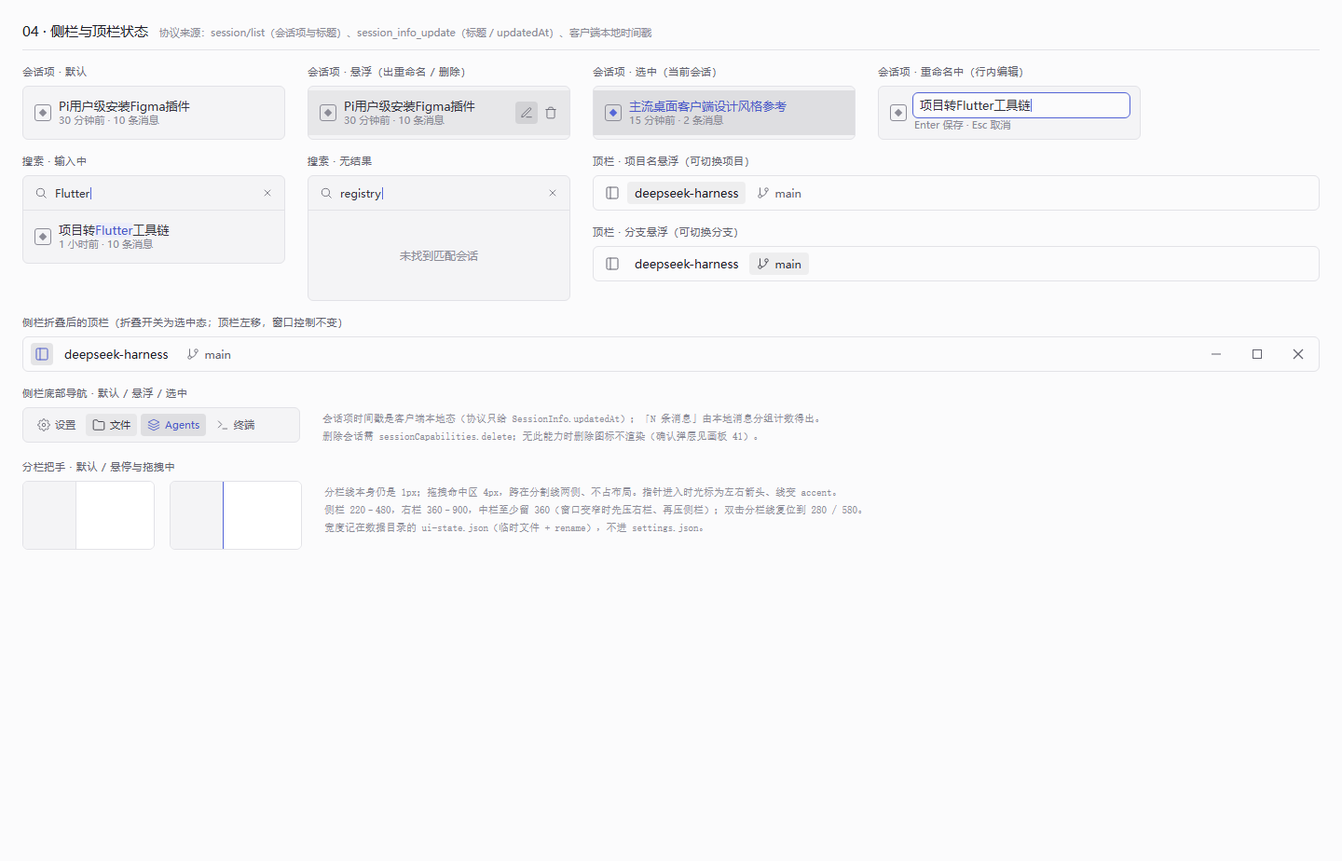
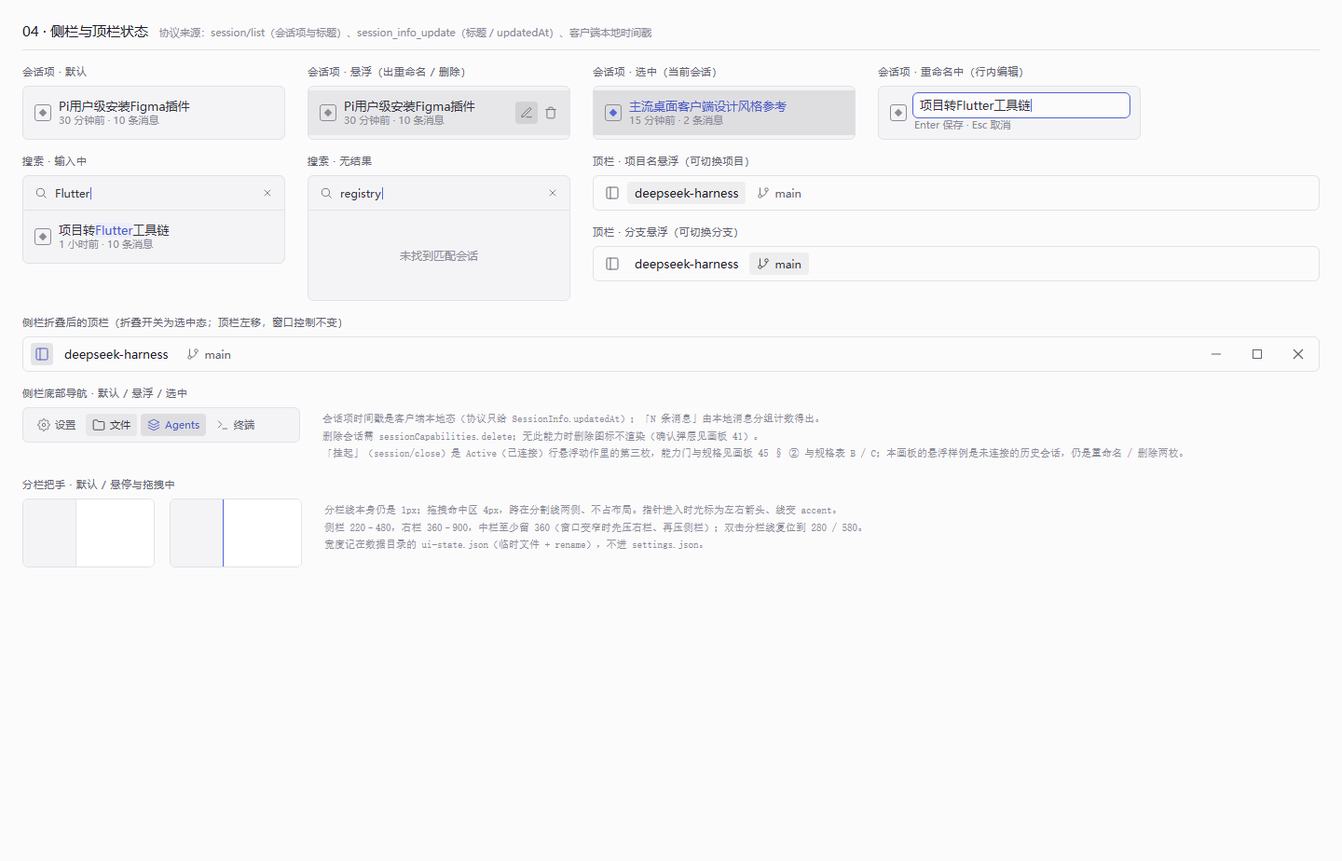
design(iter-19): 回补画板 45 的「挂起」行内动作（+ 画板 04 注记），删 DIVERGENCE A-37
所有者 2026-09-29 指示回补实现先行的那一处：

- design/round-design/45-sidebar-active-history.dc.html：§ ② 的 Active 普通项悬浮态由两枚图标
  改成三枚（pause / 改名 / 删除，12px、24 视口、#7E7E8A、stroke 2，挂起在改名之前）；
  规格表 B 的「Active → History 降格」点明入口是本行悬浮动作里的「挂起」，并新增一行
  「挂起（Active 行内动作）」（含 tooltip、只读转录、沉回 History、再点挂回与三层能力门）；
  规格表 C 新增「挂起图标（行内动作）」一行。
- design/round-design/04-sidebar-states.dc.html：悬浮样例是未连接的历史会话，仍画重命名 / 删除两枚
  （加第三枚就与实现不符），只在注记里补一句指向画板 45 § ② 与规格表 B / C。
- PNG：scripts/render-design.ps1 -Round round-design -Only 45,04 重渲染（1440×960 / 1440×924），
  两张都逐张看过。
- design/README.md：画板 45 行加注记 + 变更记录新增 2026-09-29 一条。
- design/DIVERGENCE.md：删除 A-37（按该文件自己的用法：回补完就删行、编号不腾，留注释说明）。
- 同步引用 A-37 的注释 / 文档：lib/ui/transcript/icons.dart、lib/app/session_controller.dart、
  lib/ui/shell/sidebar.dart、test/ui/sidebar_suspend_test.dart、rounds/BACKLOG-CLOSED.md、
  iterations/iteration-19.md（新增工作项 4，类型 board）。

validate.ps1 全绿（622 项）。

Changed region(s): [[0.2188, 0.5152, 0.875, 0.6364], [0.0, 0.5152, 0.125, 0.5758]]

diff --git a/design/round-design/45-sidebar-active-history.dc.html b/design/round-design/45-sidebar-active-history.dc.html
@@ -315,6 +315,7 @@
                 <div style="font-size:10px;color:#7E7E8A" class="tabular">12 分钟前 · 9 条消息</div>
               </div>
               <div style="display:flex;align-items:center;gap:4px">
+                <svg width="12" height="12" viewBox="0 0 24 24" fill="none" stroke="#7E7E8A" stroke-width="2"><line x1="9" y1="5" x2="9" y2="19"/><line x1="15" y1="5" x2="15" y2="19"/></svg>
                 <svg width="12" height="12" viewBox="0 0 24 24" fill="none" stroke="#7E7E8A" stroke-width="2"><path d="M12 20h9"/><path d="M16.5 3.5a2.121 2.121 0 0 1 3 3L7 19l-4 1 1-4L16.5 3.5z"/></svg>
                 <svg width="12" height="12" viewBox="0 0 24 24" fill="none" stroke="#7E7E8A" stroke-width="2"><polyline points="3 6 5 6 21 6"/><path d="M19 6v14a2 2 0 0 1-2 2H7a2 2 0 0 1-2-2V6m3 0V4a2 2 0 0 1 2-2h4a2 2 0 0 1 2 2v2"/></svg>
               </div>
@@ -596,7 +597,11 @@
 
         <div class="spec-cell" style="color:#D5D5DC">Active → History 降格</div>
         <div class="spec-cell mono" style="color:#D8A83C">session/close / 进程断开</div>
-        <div class="spec-cell" style="color:#9B9BA6">主动关闭会话、重载 Agent 连接或子进程退出时，原 attached 会话解除挂载，自动沉降回 History 区并按时间戳归位。</div>
+        <div class="spec-cell" style="color:#9B9BA6">点该行悬浮动作里的「挂起」（见下一行）、重载 Agent 连接或子进程退出时，原 attached 会话解除挂载，自动沉降回 History 区并按时间戳归位。</div>
+
+        <div class="spec-cell" style="color:#D5D5DC">挂起（Active 行内动作）</div>
+        <div class="spec-cell mono" style="color:#D8A83C">AcpIcons.pause → session/close</div>
+        <div class="spec-cell" style="color:#9B9BA6">Active 行悬浮动作里的第一枚图标（在改名 / 删除之前），tooltip `Suspend session`：点击把这条会话交还 agent（session/close = 先 cancel 再释放，不删记录），本地转录留着只读，条目随即按上一条降格回 History；再点它那一行走「History → Active 升格」挂回来。仅当该行会话所属 agent 同时声明了 sessionCapabilities.close 与 loadSession（或 resume）时渲染，否则这一行仍只有改名 / 删除两枚。</div>
       </div>
     </div>
 
@@ -611,6 +616,9 @@
 
         <div class="spec-cell" style="color:#7E7E8A">Active 徽章 / 绿点</div>
         <div class="spec-cell mono" style="color:#6FBF63">Semantic.success (#6FBF63 / #477F40) + successSoft</div>
+
+        <div class="spec-cell" style="color:#7E7E8A">挂起图标（行内动作）</div>
+        <div class="spec-cell mono" style="color:#D5D5DC">AcpIcons.pause（两只竖线 · 24 视口 / stroke 2）· IconButtonGhost(Controls.compact) · Neutral.muted</div>
 
         <div class="spec-cell" style="color:#7E7E8A">History 数量徽章</div>
         <div class="spec-cell mono" style="color:#9B9BA6">Spacing.chip (1px 5px) · Radii.chip (3px) · Overlays.hover</div>

diff --git a/lib/ui/shell/sidebar.dart b/lib/ui/shell/sidebar.dart
@@ -3,8 +3,9 @@
 // 会话列表以本地索引为准（docs/design.md § 3 末条）：时间戳是客户端本地态，「N 条消息」由投影层分组计数得出（画板 04 注）。
 // 删除图标一律渲染（确认弹层在画板 41）：它删的首先是本地索引这条记录，agent 侧删不删由组合根判——
 // 按 `sessionCapabilities.delete` 裁剪过一版，结果是没声明 delete 的 agent 的会话在侧栏里永远清不掉。
-// 「挂起」（画板 45 的行内动作扩展，iteration-19）只给 Active 区、且这条会话的 agent 声明了 `session/close` 的行：
-// 点了它这条会话交还 agent（转录留着只读、从 Active 沉到 History），再点 History 里那一行由组合根挂回来。
+// 「挂起」（画板 45 § ② 悬浮态里的第一枚行内动作，iteration-19）只给 Active 区、且这条会话的 agent 声明了
+// `session/close` 与 `loadSession` / `resume` 的行：点了它这条会话交还 agent（转录留着只读、从 Active 沉到
+// History），再点 History 里那一行由组合根挂回来。
 
 import 'package:flutter/widgets.dart';
 

diff --git a/test/ui/sidebar_suspend_test.dart b/test/ui/sidebar_suspend_test.dart
@@ -1,8 +1,8 @@
 // iteration-19 · 侧栏 Active 行的「挂起」（BACKLOG P1「会话菜单的 Resume / Close 没有入口」的收尾）：
 // 挂起 = 把这一行那条会话交给 agent 的 `session/close`（核心侧就是先 cancel 再释放），本地转录留着只读，
 // 它随即从 Active 区沉到 History；在 History 里点它那一行由 `selectSession` → `ensureLoaded` 挂回来
-// （agent 声明了 `loadSession` 就 `session/load` 重放）。画板 45 的行内动作只画了改名与删除，
-// 挂起是本迭代加上去的（design/DIVERGENCE.md A-37）。
+// （agent 声明了 `loadSession` 就 `session/load` 重放）。挂起是画板 45 § ② 悬浮态里的第一枚行内动作
+// （规格表 B / C 同步，iteration-19 回补）。
 //
 // 守住四件事：给了「这条 agent 声明了 close」才出图标、只出在 Active 行上、点了打的是这条会话
 // （不是当前会话）、挂起与挂回是同一条会话的同一条命令面。

diff --git a/lib/ui/transcript/icons.dart b/lib/ui/transcript/icons.dart
@@ -188,7 +188,7 @@ abstract final class AcpIcons {
       '<line x1="8" y1="6" x2="21" y2="6"/><line x1="8" y1="12" x2="21" y2="12"/><line x1="8" y1="18" x2="21" y2="18"/>'
       '<line x1="3" y1="6" x2="3.01" y2="6"/><line x1="3" y1="12" x2="3.01" y2="12"/><line x1="3" y1="18" x2="3.01" y2="18"/>';
 
-  /// 侧栏 Active 行的「挂起」（iteration-19：画板 45 的行内动作只画了改名与删除，见 DIVERGENCE A-37）。
+  /// 侧栏 Active 行的「挂起」（画板 45 § ② 悬浮态里的第一枚行内动作，iteration-19）。
   /// 两条竖线（pause）：与其余图标同路数（24 单位视口、单线、圆头），外廓撑到 5–19，并排看轻重一致。
   static const String pause = '<line x1="9" y1="5" x2="9" y2="19"/><line x1="15" y1="5" x2="15" y2="19"/>';
 

diff --git a/design/round-design/04-sidebar-states.dc.html b/design/round-design/04-sidebar-states.dc.html
@@ -144,6 +144,7 @@
     <div style="flex:1;min-width:0;font-family:'Geist Mono',ui-monospace,monospace;font-size:11px;color:#8b8b96;line-height:1.7;padding-top:26px">
       <div>会话项时间戳是客户端本地态（协议只给 SessionInfo.updatedAt）；「N 条消息」由本地消息分组计数得出。</div>
       <div>删除会话需 sessionCapabilities.delete；无此能力时删除图标不渲染（确认弹层见画板 41）。</div>
+      <div>「挂起」（session/close）是 Active（已连接）行悬浮动作里的第三枚，能力门与规格见画板 45 § ② 与规格表 B / C；本画板的悬浮样例是未连接的历史会话，仍是重命名 / 删除两枚。</div>
     </div>
   </div>
 

diff --git a/lib/app/session_controller.dart b/lib/app/session_controller.dart
@@ -200,7 +200,7 @@ class SessionController extends ChangeNotifier with GuardedNotifier, SessionAtta
           if (attachOf(s.id) == SessionAttach.attached) s.id,
       };
 
-  /// 其中能挂起的那些（iteration-19：侧栏 Active 行的行内动作，画板 45 没画，见 DIVERGENCE A-37）：
+  /// 其中能挂起的那些（iteration-19：画板 45 § ② 的行内动作「挂起」）：
   /// 挂在活着的连接上、它自己的 agent 声明了 `sessionCapabilities.close` 且挂得回来（[canSuspendSession]）。
   /// 是 [attachedSessionIds] 的子集。
   Set<String> get suspendableSessionIds => <String>{

diff --git a/rounds/BACKLOG-CLOSED.md b/rounds/BACKLOG-CLOSED.md
@@ -137,4 +137,4 @@
 - [x] **转录里有大 diff 时，流式输出越来越卡** → **已修（iteration-13，2026-09-24）**：`lineDiff` 改成按旧文件原始下标一遍登记、顺序拼出（线性，与原实现逐行一致，测试保留原实现对照）；diff 结果连同 +N / −N 按 (oldText, newText) 缓存在 State；展开体按画板 21 的固定行高（新 token `LineHeights.diffRow` = 1.7）只建视口上下各一屏的行，外层滚动时当场、父级重建后帧尾补算窗口，行 widget 按下标缓存，定位回调经 State 转一道；悬浮提示改成浮在行上（行高不再被撑高，与画板一致）。实测（flutter test JIT）视口里 3000 行 diff 时每帧 999 → 6.9 ms、点开 2388 → 84 ms。原技术行：`DiffCard.build`（`lib/ui/transcript/diff_card.dart`）每次都现算 `lineDiff`、不缓存，折叠态也要算 +N / −N；转录列表监听 store，每帧重建时视口内的 diff 卡整份重算。`lineDiff` 里的 `indexOfLive` 每条更新都整表线性扫一遍、再 `List.insert`，大 diff 下是平方级；展开体是非惰性 `Column`。最小修法：diff 结果连同 +N / −N 缓存进 State，只在 `oldText` / `newText` 变了才重算；`indexOfLive` 换成随遍历维护的游标；展开体改惰性列表。全仓审查 (2026-09-23) → iteration-13
 - [x] **长回答 / 大代码块流式输出时，每帧整段重新解析和高亮** → **已修（iteration-13，2026-09-24）**：`MarkdownBody` 按安全块边界（`markdownSafeBoundary`：空行之后、下一块首行收全、不在围栏里、首行顶格且不是列表标记也不以 `<` 开头；围栏跟踪与 package:markdown 的 `codeFencePattern` 整行一致，缩进围栏行与 `<` 行之后不再切）封口，封口块只解析一次、widget 实例复用，每个 chunk 只重解析、重建尾部（`MarkdownStream`，链接 recognizer 分封口 / 尾部两份登记）；有全文级链接 / 脚注定义或 `\r` 换行时整段解析；`CodeBlock` 高亮按 (code, language, 字体代数) 缓存。实测长回答流式每帧 35.7 → 10.7 ms。残留：单个超大代码块自己流式时仍整块重高亮（`re_highlight` 不公开续高亮），项间有空行的长列表封不了口，见 iteration-13 备注。原技术行：`AssistantText`（`lib/ui/transcript/assistant_text.dart`）把整条消息的 text 块拼成一段交给 `MarkdownBody`，`data` 一变 `_rebuild()` 就整段 `MarkdownBody.parse`、重建全部块 widget 实例（`lib/ui/transcript/markdown_body.dart`）；`CodeBlock.build` 又把整段代码 `highlightCode` 一遍、不缓存（`lib/ui/transcript/code_block.dart`）。批处理器把通知压到一帧一次，所以单帧代价随消息长度线性增长。最小修法：只重新解析最后一个块边界之后的尾部、已完成的块 widget 复用；`CodeBlock` 按 code / language / 字体代数缓存高亮结果。全仓审查 (2026-09-23) → iteration-13
 - [x] **Windows 的「动画效果」开关与节电模式不影响本应用的动效** → **不做（所有者裁定 2026-09-24）**。原技术行：Flutter 3.47.4 的 Windows 嵌入层只往 Dart 报 HighContrast（`FlutterWindowsEngine::SendAccessibilityFeatures`），`MediaQuery.disableAnimations` 在 Windows 上恒 false。要做得在 runner（`windows/runner/acp_window.cpp` 那条平台通道）里读 `SystemParametersInfo(SPI_GETCLIENTAREAANIMATION)` 与 `PowerRegisterForEffectivePowerModeNotifications`（BatterySaver / EnergySaver），推给 Dart 后让 `AmbientClock` 的订阅方降成静态指示。新增行为 + 新平台通道方法，要所有者裁定（iteration-14 调研, 2026-09-24）
-- [x] **会话菜单的 Resume / Close 没有入口** → **已做（iteration-19，2026-09-29，所有者当场指示）**：入口不做在会话菜单里（画板 03 / 41 对会话头 ≡ 的冲突未解，≡ 保持右栏开关），做成侧栏 **Active 行的行内动作「挂起」**（`AcpIcons.pause`，tooltip `Suspend session`）：只在「挂在活着的连接上（`attachOf == attached`）、**这条会话自己的** agent 声明了 `sessionCapabilities.close`、且挂得回来（声明了 `loadSession` 或 `resume`）」时出（`SessionController.canSuspendSession` / `suspendableSessionIds`，组合根传给 `Sidebar.suspendableIds`；「挂得回来」这一条是审查 P2 补上的：只有 close 的 agent 关掉之后点 History 不会有反应，那就不叫挂起）。点击走与 ≡ 菜单 Close 同一条 `closeSession`（这次泛化成 `closeSession({String? id})`，目标 agent 按 `ownerOf` 取那条会话自己登记的，≡ 菜单那条缺省仍是当前会话）：核心 `session/close` 先 cancel 再释放，本地转录留着**只读**、索引不动，`attachOf` 随即不再是 attached —— 画板 45 的分组判定当场把它从 Active 沉到 History，前端不需要另记「挂起中」状态；再点 History 里那一行由既有的 `selectSession` → `ensureLoaded` 挂回来（声明 `loadSession` 走重放，否则 `session/resume`）。`TurnController._blockedByClose` 的提示按 `attachOf` 分开说（挂得回指侧栏 History；`session/list` 校对出 agent 侧已经没有这条的说 agent 侧没有了；能力上挂不回的说 agent 不支持 —— 这三种是审查 R1 / R2 两轮整改拆出来的）。**Resume 仍不做单独入口**：侧栏点开一条会话本来就是 load / resume 自动选一条，它的用途被覆盖（原结论保留）。用例 `test/ui/sidebar_suspend_test.dart` 6 条（渲染 / 两个能力门 / 只给 Active 行 / 挂起→History→点击挂回往返 / 只有 close 时入口不存在）+ `test/app/session_lifecycle_wiring_test.dart` 的两句提示。实现先行（画板 45 / 04 / 41 都没画这个动作）记 `design/DIVERGENCE.md` A-37。原技术行：R6 会话头 ≡ 的语义在画板 03（右栏展开的选中态）与画板 41（会话菜单）之间冲突。所有者裁定 2026-09-16：**≡ 保持右栏开关，会话菜单要入口先改设计稿**。R6 已把菜单的动作接通并做了单测（`resumeSession` / `closeSession` / `deleteSession` + 能力裁剪），产品 UI 里 **Delete 有入口（侧栏删除图标，画板 04）、Resume / Close 没有**。下个设计轮给会话菜单定一个入口（改画板 41 / 03），再接上 `SessionMenuPopover` (2026-09-16) → **所有者裁定 2026-09-23：暂不处理**。当天查过 Zed 的做法：它也**没有**手动 Resume / Close 入口，而是在切走会话时后台自动 close，只保活最近 5 条空闲且 agent 支持 `loadSession` 的会话，切回被回收的会话走 `session/load`。机制全文、源码行号和与我们的对照记在 [`docs/research.md`](../docs/research.md) § 4.1，以后做自动 close 从那里开工。当时评估的方案是 `selectSession` 切走时回收、保活上限 5，还差一个裁定点：切回时 resume 优先（内存里的转录还在、不重放），还是照 Zed 一律 load。本次不做 (2026-09-23) → iteration-19
+- [x] **会话菜单的 Resume / Close 没有入口** → **已做（iteration-19，2026-09-29，所有者当场指示）**：入口不做在会话菜单里（画板 03 / 41 对会话头 ≡ 的冲突未解，≡ 保持右栏开关），做成侧栏 **Active 行的行内动作「挂起」**（`AcpIcons.pause`，tooltip `Suspend session`）：只在「挂在活着的连接上（`attachOf == attached`）、**这条会话自己的** agent 声明了 `sessionCapabilities.close`、且挂得回来（声明了 `loadSession` 或 `resume`）」时出（`SessionController.canSuspendSession` / `suspendableSessionIds`，组合根传给 `Sidebar.suspendableIds`；「挂得回来」这一条是审查 P2 补上的：只有 close 的 agent 关掉之后点 History 不会有反应，那就不叫挂起）。点击走与 ≡ 菜单 Close 同一条 `closeSession`（这次泛化成 `closeSession({String? id})`，目标 agent 按 `ownerOf` 取那条会话自己登记的，≡ 菜单那条缺省仍是当前会话）：核心 `session/close` 先 cancel 再释放，本地转录留着**只读**、索引不动，`attachOf` 随即不再是 attached —— 画板 45 的分组判定当场把它从 Active 沉到 History，前端不需要另记「挂起中」状态；再点 History 里那一行由既有的 `selectSession` → `ensureLoaded` 挂回来（声明 `loadSession` 走重放，否则 `session/resume`）。`TurnController._blockedByClose` 的提示按 `attachOf` 分开说（挂得回指侧栏 History；`session/list` 校对出 agent 侧已经没有这条的说 agent 侧没有了；能力上挂不回的说 agent 不支持 —— 这三种是审查 R1 / R2 两轮整改拆出来的）。**Resume 仍不做单独入口**：侧栏点开一条会话本来就是 load / resume 自动选一条，它的用途被覆盖（原结论保留）。用例 `test/ui/sidebar_suspend_test.dart` 6 条（渲染 / 两个能力门 / 只给 Active 行 / 挂起→History→点击挂回往返 / 只有 close 时入口不存在）+ `test/app/session_lifecycle_wiring_test.dart` 的关闭态提示三条（照旧 / 能力上挂不回 / agent 侧已没有）。**画板已回补**（所有者 2026-09-29 指示）：画板 45 § ② 的悬浮态画上这枚图标、规格表 B 新增「挂起（Active 行内动作）」一行、C 新增挂起图标一行，画板 04 的注记同步，PNG 已重渲染（`design/README.md` 变更记录），DIVERGENCE A-37 随之删除。原技术行：R6 会话头 ≡ 的语义在画板 03（右栏展开的选中态）与画板 41（会话菜单）之间冲突。所有者裁定 2026-09-16：**≡ 保持右栏开关，会话菜单要入口先改设计稿**。R6 已把菜单的动作接通并做了单测（`resumeSession` / `closeSession` / `deleteSession` + 能力裁剪），产品 UI 里 **Delete 有入口（侧栏删除图标，画板 04）、Resume / Close 没有**。下个设计轮给会话菜单定一个入口（改画板 41 / 03），再接上 `SessionMenuPopover` (2026-09-16) → **所有者裁定 2026-09-23：暂不处理**。当天查过 Zed 的做法：它也**没有**手动 Resume / Close 入口，而是在切走会话时后台自动 close，只保活最近 5 条空闲且 agent 支持 `loadSession` 的会话，切回被回收的会话走 `session/load`。机制全文、源码行号和与我们的对照记在 [`docs/research.md`](../docs/research.md) § 4.1，以后做自动 close 从那里开工。当时评估的方案是 `selectSession` 切走时回收、保活上限 5，还差一个裁定点：切回时 resume 优先（内存里的转录还在、不重放），还是照 Zed 一律 load。本次不做 (2026-09-23) → iteration-19

diff --git a/iterations/iteration-19.md b/iterations/iteration-19.md
@@ -19,20 +19,22 @@
 |---|---|---|---|---|---|---|---|
 | 1 | ux | 侧栏 Active 行加「挂起」行内动作：新图标 `AcpIcons.pause`、`SidebarSessionRow.onSuspend`（只在 Active、**这条会话自己的** agent 声明了 `sessionCapabilities.close`、且挂得回来（`loadSession` 或 `resume`）时出，`SessionController.canSuspendSession` / `suspendableSessionIds`）；`closeSession` 泛化到指定会话（`closeSession({String? id})`，目标 agent 按 `ownerOf` 取，≡ 菜单那条缺省路径不变）；挂起后这条会话沉到 History，点它那一行走既有的 `ensureLoaded` 挂回来；关闭态提示按 `attachOf` 分开说（挂得回 / agent 侧已没有 / 能力上挂不回） | BACKLOG P1「会话菜单的 Resume / Close 没有入口」（所有者 2026-09-29 指示） | `claude/iter-19-session-suspend`（`55d0d37` + `5eefbb3` + `bf2f268`）→ 待合并（所有者定时机） | validate 全绿（622 项） | R1: high 0 / P2 1；R2: high 0 / P2 2；R3: 0 条（均已整改） | 待合并 |
 | 2 | tidy | 补测试：`test/ui/sidebar_suspend_test.dart` 6 条（渲染与点击、两个能力门、只给 Active 行、挂起 → History → 点击挂回完整往返、只有 close 时入口不存在）+ `test/app/session_lifecycle_wiring_test.dart` 的关闭态提示三条（照旧 / 能力上挂不回 / agent 侧已没有） | 同上 | 同上 | validate 全绿（622 项） | 同上 | 待合并 |
-| 3 | tidy | BACKLOG 收尾：P1「会话菜单的 Resume / Close 没有入口」剪到 `BACKLOG-CLOSED.md`（`→ iteration-19`）、P1 计数 3 → 2、总计数 8 → 7；实现先行的偏离记 `design/DIVERGENCE.md` A-37 | 同上 | 同上 | 纯文档，随同一分支 validate | 同上 | 待合并 |
+| 3 | tidy | BACKLOG 收尾：P1「会话菜单的 Resume / Close 没有入口」剪到 `BACKLOG-CLOSED.md`（`→ iteration-19`）、P1 计数 3 → 2、总计数 8 → 7 | 同上 | 同上 | 纯文档，随同一分支 validate | 同上 | 待合并 |
+| 4 | board | 回补画板（所有者 2026-09-29 指示）：画板 45 § ② 的 Active 悬浮态画上「挂起」这枚图标、规格表 B 新增「挂起（Active 行内动作）」一行、C 新增「挂起图标（行内动作）」一行；画板 04 的注记补一句（它的悬浮样例是未连接的历史会话，仍是两枚）；`render-design.ps1 -Only 45,04` 重渲染 PNG、更新 `design/README.md`（画板行 + 变更记录）、删 `design/DIVERGENCE.md` A-37 并同步引用它的注释 / 文档 | 所有者 2026-09-29 指示（iteration-19 实现先行的那一处回补） | 同上 | 画板已重渲染并逐张目视对照 | 待审查 | 待合并 |
 
 ## 收口
 
 - 构建 / 手测：待所有者定时机。手测三项：① 对一条 Active（已连接）的会话悬浮点「挂起」，它立刻落到 HISTORY 区、转录仍在（只读），agent 侧这条会话已释放；② 在 HISTORY 里点它那一行，回到 ACTIVE 区、能继续发消息（声明 `loadSession` 的 agent 会重放历史）；③ 对没声明 `sessionCapabilities.close` 的 agent（如 pi-acp）、或只声明了 close 而挂不回来的 agent，Active 行只有改名 / 删除两个图标。
 - 发版：不发（所有者定）。
 - 移出项去向：—（BACKLOG 那一条在本迭代关闭；Zed 的「切走自动 close、保活 5 条」是另一件事，仍留在 `docs/research.md` § 4.1，本迭代不动）
-- 设计稿补注记：挂起是画板 45 / 04 / 41 都没有的行内动作，按所有者当场指示实现先行，记 `design/DIVERGENCE.md` A-37，不补画板。
+- 设计稿补注记：挂起实现先行时记过 `design/DIVERGENCE.md` A-37；**所有者 2026-09-29 指示回补，已回补并删除该条**（画板 45 § ② + 规格表 B / C、画板 04 的注记，PNG 重渲染，见 `design/README.md` 变更记录）。画板 41 / 03 的 ≡ 语义冲突仍原样（本迭代不去动会话菜单）。
 
 ## 备注
 
 ### 为什么是「挂起」而不是把 Close 摆进会话菜单
 
 - 画板 03（右栏展开的选中态）与画板 41（会话菜单）对会话头 ≡ 的语义冲突，所有者 2026-09-16 裁定「≡ 保持右栏开关，会话菜单要入口先改设计稿」；本迭代不再去动 ≡ 与 `SessionMenuPopover`（它至今只在 gallery 与单测里出图）。
+- 入口落在**画板 45 § ②** 的 Active 行悬浮动作里（原稿只画了改名 / 删除两枚，回补后是三枚：挂起 / 改名 / 删除），规格表 B / C 同步；**画板 04** 的悬浮样例是未连接的历史会话，仍画两枚，只在注记里指向 45（第三枚只属于 Active 行，画到 04 的样例上就与实现不符）。
 - `session/close` 的语义正好是「先 cancel 再释放、不删记录」：本地转录留着只读、索引不动、agent 侧放掉资源。挂起之后 `attachOf(id)` 不再是 `attached`，画板 45 的分组判定（`attachedSessionIds`）当场就把它分到 History —— 前端不需要另记一个「挂起中」的状态，一个协议动作同时完成了 UI 分组的搬家。
 - 挂回走的是已有的一条路：`selectSession` → `ensureLoaded` → `_attach`（声明 `loadSession` 就重放、否则 `session/resume`），iteration-17 的 History 点击升格已经把它测过；本迭代只补「挂起之后这条路仍然通」的往返用例。
 

diff --git a/design/README.md b/design/README.md
@@ -65,7 +65,7 @@
 | 42 | 输入框内联菜单 | 会话工作台 | round-design | `design/round-design/42-inline-menus.dc.html` | `design/round-design/42-inline-menus.png` | — | 已实现（R3） | — |
 | 43 | 会话时间线弹层 | 会话工作台 | round-design | `design/round-design/43-session-timeline.dc.html` | `design/round-design/43-session-timeline.png` | — | 已实现（2026-09-20，`session-timeline` 分支） | 新增 `Timeline` 一组（maxHeightFactor / width / rail / railWidth / railColumn / node / nodeColor / label / turnGap）；`TextStyles` 补 `labelTabular`（`label` 加等宽数字，标题行用） |
 | 44 | 本地发送队列 | 输入框上方 | round-design | `design/round-design/44-send-queue.dc.html` | `design/round-design/44-send-queue.png` | — | 已实现（round-send-queue） | — |
-| 45 | 侧栏会话区分组规范 | 会话工作台 / 侧栏 | round-design | `design/round-design/45-sidebar-active-history.dc.html` | `design/round-design/45-sidebar-active-history.png` | — | 已实现（iteration-17） | 新增 `SidebarSection` 一组（headerHeight / headerPadding / labelGap / dotSize / onlineGlow / chipPadding / chipRadius / dividerMargin / emptyHintPadding / chevronSize / markBorderWidth / markOffset / offlineOpacity） |
+| 45 | 侧栏会话区分组规范 | 会话工作台 / 侧栏 | round-design | `design/round-design/45-sidebar-active-history.dc.html` | `design/round-design/45-sidebar-active-history.png` | — | 已实现（iteration-17）· 2026-09-29 Active 行的悬浮动作加第三枚「挂起」（`AcpIcons.pause` → `session/close`，规格表 B 补一行、C 补挂起图标；已实现，随 iteration-19） | 新增 `SidebarSection` 一组（headerHeight / headerPadding / labelGap / dotSize / onlineGlow / chipPadding / chipRadius / dividerMargin / emptyHintPadding / chevronSize / markBorderWidth / markOffset / offlineOpacity） |
 | 50 | Agents 面板（ACP Registry） | agent 管理 | round-design | `design/round-design/50-registry.dc.html` | `design/round-design/50-registry.png` | — | 已实现（R5）· 2026-09-23 标题行加检查时间与刷新、Codex 行换成可升级态（已实现，随画板 53，`registry-upgrade` 分支） | — |
 | 51 | Registry 条目状态 | agent 管理 | round-design | `design/round-design/51-registry-states.dc.html` | `design/round-design/51-registry-states.png` | — | 已实现（R5） | — |
 | 52 | agent 认证 | agent 管理 | round-design | `design/round-design/52-auth.dc.html` | `design/round-design/52-auth.png` | — | 已实现（R5） | — |
@@ -78,6 +78,8 @@
 状态取值：`待实现` / `已实现（R<N>）` / `已废弃`。
 
 ## 变更记录（入库后对 `.dc.html` 的改动，PNG 已用 `scripts/render-design.ps1` 重渲染）
+
+- 2026-09-29 改画板 45（iteration-19 回补）与画板 04 的注记。起因：本迭代按所有者当场指示给侧栏 Active 行加了「挂起」行内动作（`session/close` = 先 cancel 再释放、不删记录；条目随即按既有的分组判定沉到 History，点 History 那一行再挂回来），当时实现先行、只记了 DIVERGENCE；所有者 2026-09-29 指示回补画板，DIVERGENCE A-37 随之删除。**画板 45**：§ ②「Active 普通项（Hover 出操作按钮）」的悬浮态由两枚图标（改名 / 删除）改成三枚（`pause` / 改名 / 删除，12px、24 视口、`#7E7E8A`、stroke 2，在改名之前）；规格表 B 的「Active → History 降格」那格点明入口是本行悬浮动作里的「挂起」，并新增一行「挂起（Active 行内动作）」（判定条件 `AcpIcons.pause → session/close`，UI 表现写清 tooltip `Suspend session`、只读转录、沉回 History、再点挂回，以及能力门：该会话所属 agent 同时声明 `sessionCapabilities.close` 与 `loadSession`（或 `resume`）时才渲染）；规格表 C 新增一行「挂起图标（行内动作）」（`AcpIcons.pause` · `IconButtonGhost(Controls.compact)` · `Neutral.muted`）。**画板 04**：悬浮样例是未连接的历史会话，仍是重命名 / 删除两枚（不画第三枚，否则与实现不符），只在注记里补一句指向画板 45 § ② 与规格表 B / C。无新 token。
 
 - 2026-09-29 新增画板 45「侧栏会话区分组规范」（1440 × 960，page-3 放在画板 44 右边 `x 6080`）。起因是所有者指示：侧栏会话区分组展示为 Active（已连接）与 History（历史归档），已连接会话常驻 Active 区，支持一键折叠收纳历史会话（折叠状态无需展示“已折叠”3字），搜索保持分区上下文。无新 token、无新图标，严格对位 `00-tokens` 与 `07-dark-tokens`。
 

diff --git a/design/DIVERGENCE.md b/design/DIVERGENCE.md
@@ -46,7 +46,8 @@
 
 36. **画板 08 B 没画「收轮之后还有内容进来」**：画板的回合折叠默认一轮到 `stop_reason` 就结束了，而 agent 可以在 `session/prompt` 回了 `end_turn` 之后接着推 `session/update`（Claude Code 的后台命令 / 后台子代理跑完把它唤醒，所有者 2026-09-24 实测一次收轮后又跑了 10 分钟）。照原规则，末尾换成新来的工具调用，「最后一段连续 agent 文本」就数不到原结论，结论连同新内容全收进已经折起的折叠块，界面只剩摘要行和页脚 → 实现：① 折叠块与「最后一段」只按**收轮那一刻已有的条目**算（`at` 不晚于 `TurnEntry.endedAt`），收轮后到的条目不进折叠块、按到达顺序排在结论后面照常显示，摘要行的计数也不算它们；**回合页脚仍在整轮最后**（所有者裁定 2026-09-24）；② 视口贴着底部时收轮的自动折叠不走「结论停在原位」的锚点、交给跟随：锚点会把新出的页脚挤到视口外、离底部那一截还把跟随关掉，收轮后再来的内容就长在视口下面。收轮之后的活动**不标运行中**：协议没有信号说它什么时候结束。（iteration-15, 2026-09-24）
 
-37. **侧栏 Active 行的「挂起」（画板 45 的行内动作只有改名与删除，画板 04 / 41 也没画 Resume / Close 的入口）**：实现按所有者 2026-09-29 当场指示给 Active 行加了第三个行内动作「挂起」→ 图标是新画的 `AcpIcons.pause`（两只竖线，24 单位视口、单线、圆头、外廓 5–19，与其余图标同一路数），tooltip `Suspend session`，位置在改名之前、同样只随悬浮出（画板 04 的规矩）。点了它这条会话交给 agent 的 `session/close`（先 cancel 再释放，**不删**），本地转录留着只读，它随即从 Active 沉到 History；再点 History 里那一行挂回来（`session/load` 重放，没声明 `loadSession` 时退 `session/resume`）。能力门有三层，任一不满足就不出这个按钮：**这条会话自己的** agent 没声明 `sessionCapabilities.close`（如 pi-acp）、或者挂不回来（只有 close、既没有 `loadSession` 也没有 `resume`——那种情况点 History 不会有反应，见审查 P2）、或者它已不在 Active 区。所以这些情况下 Active 行仍只有改名 / 删除两个图标。起因是 BACKLOG P1「会话菜单的 Resume / Close 没有入口」：会话菜单（画板 41 的 `SessionMenuPopover`）与画板 03 的 ≡ 语义冲突未解，本次不去动它，改在侧栏落一个入口。（iteration-19, 2026-09-29）
+<!-- 37 曾记「侧栏 Active 行的挂起」（iteration-19，2026-09-29）为实现先行；所有者 2026-09-29 指示回补画板 45 § ② 与规格表 B / C，
+     画板 04 的注记同步，PNG 已重渲染（见 README.md 变更记录），该行按本文用法删除；编号不腾，留给以后的第 37 条。 -->
 
 ## B · 画板画错或自相矛盾，实现做对了
 
